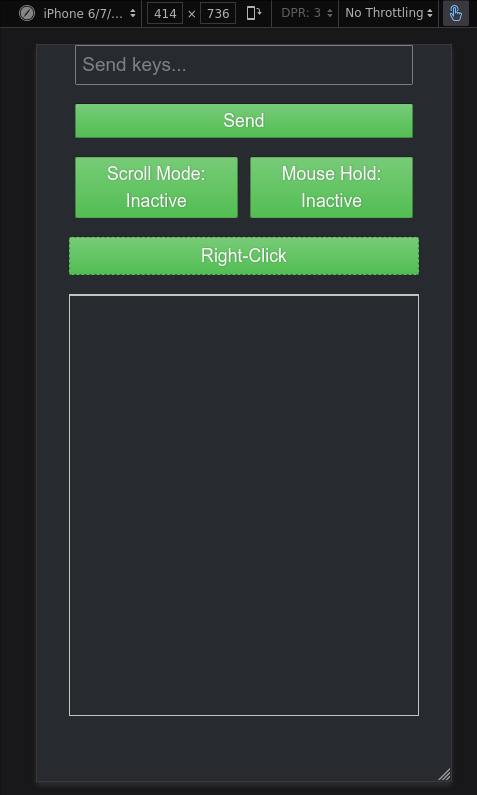
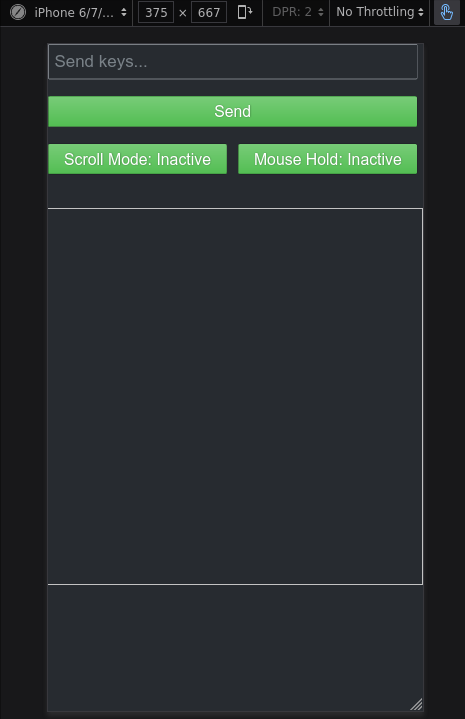
two finger tap right click

diff --git a/src/core/static/css/main.css b/src/core/static/css/main.css
@@ -51,6 +51,7 @@ input {
 }
 
 #rightClickBtn {
+    display: none; /* Hide button unless screen bigger than media query says it is */
     border-style: dashed;
     border-width: 2px;
     overflow: auto;
@@ -71,16 +72,21 @@ input {
 }
 
 
-@media only screen and (min-width : 800px) {
+@media only screen and (max-device-width: 800px) {
     #sendKeysField {
         font-size: 300% !important;
     }
 }
 
-@media only screen and (min-width : 800px) {
+/* nothing with screen size smaller than 8000px */
+@media only screen and (min-device-width: 801px) {
     body {
     	width: 800px;
     	margin: 0 auto;
+    }
+
+    #rightClickBtn {
+        display: inline-block;
     }
 }
 

diff --git a/src/core/static/js/events.js b/src/core/static/js/events.js
@@ -65,6 +65,12 @@ $(function () {
 
 // Touch events converted to mouse events
 function touchHandler(event) {
+    if (event.type == "touchstart" && event.touches.length > 1) {
+        isClicking = false;
+        rightClick();
+        return ;
+    }
+
     let touches = event.changedTouches,
         first = touches[0],
         type = "";
